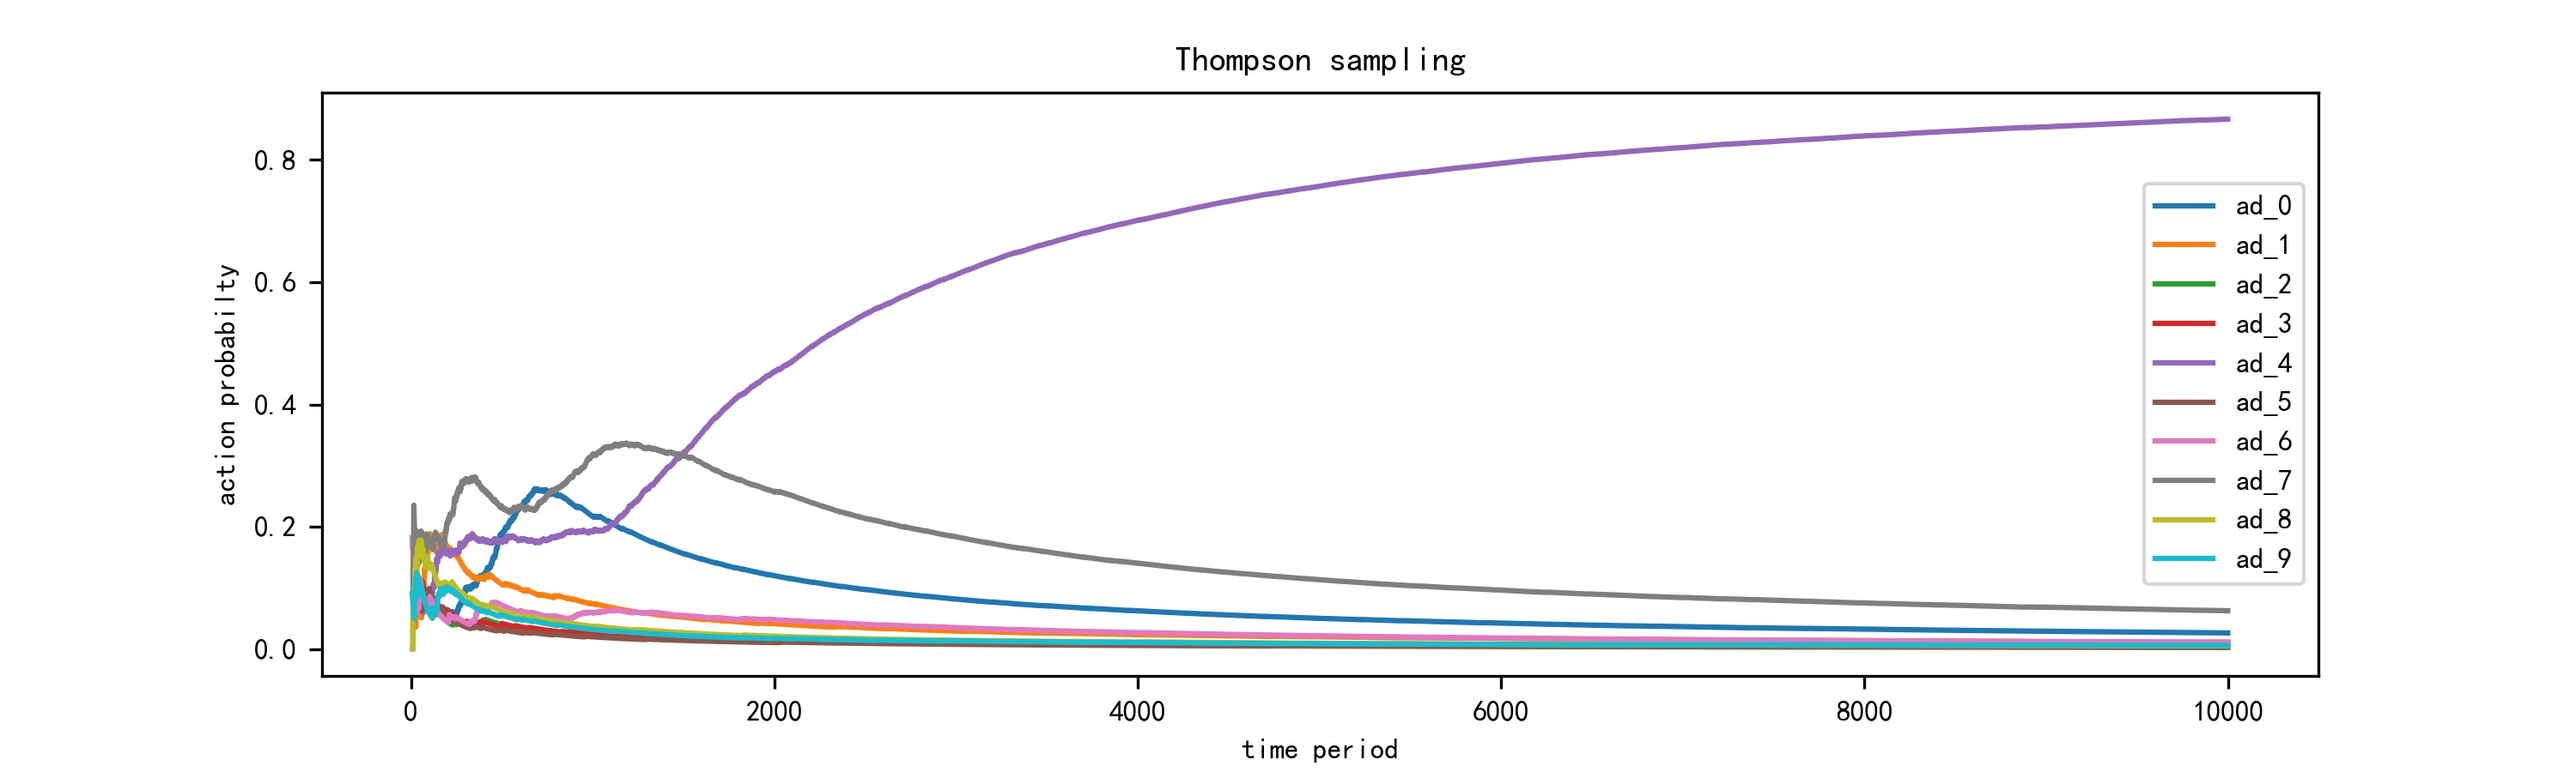
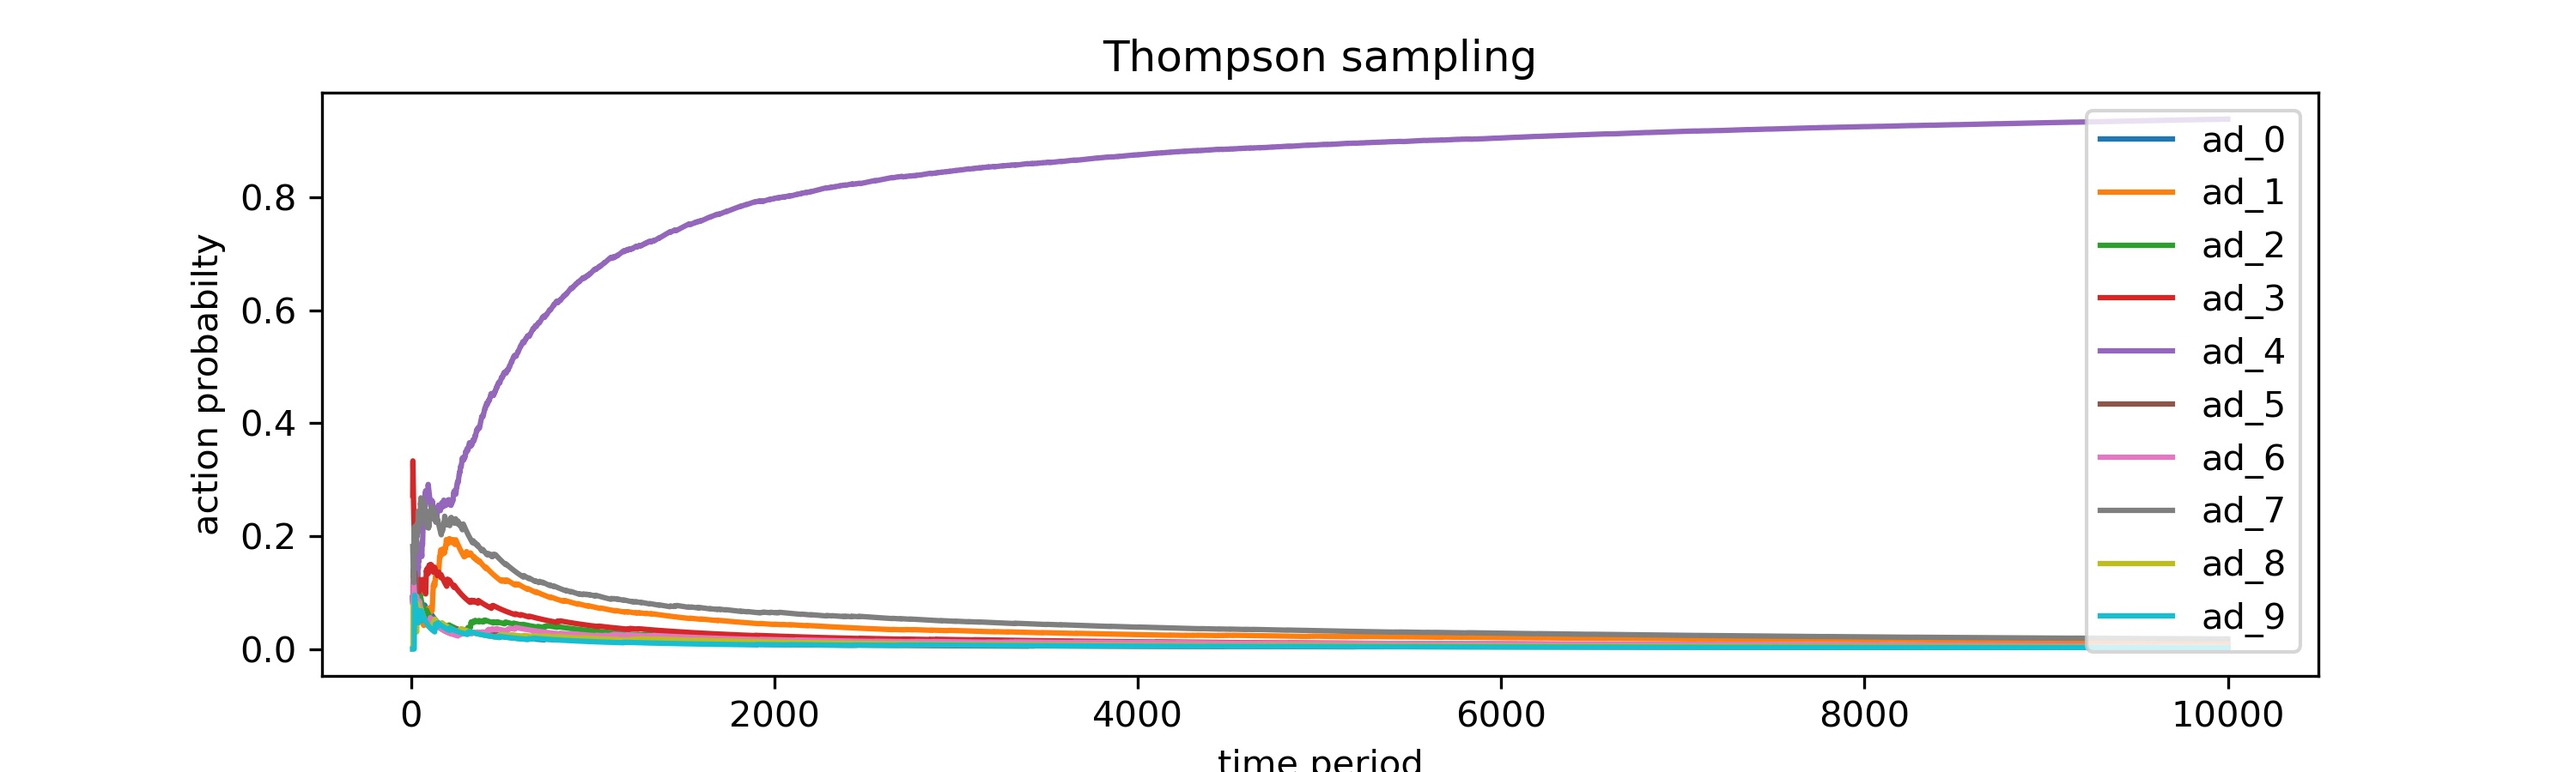
update

diff --git a/sample_code/BernTS_vs_BernGreedy/BernTS_actionProbabilty.py b/sample_code/BernTS_vs_BernGreedy/BernTS_actionProbabilty.py
@@ -6,6 +6,45 @@ import pandas as pd
 
 dataset = pd.read_csv('Ads_CTR_Optimisation.csv')
 
+
+import random
+N = 10000                   # 1000 people, considering it as 'k' 
+d = 10                      # 10 ads, the number of bandit
+
+
+# BernTS
+ads_selected = []           # Action list, for statistical analysis.
+ads_count = [0] * d   # the Cumulative Distribution Function of action
+ads_count_list = []
+numbers_of_rewards_1 = [0] * d # the reward_1 of ad_i
+numbers_of_rewards_0 = [0] * d # the reward_0 of ad_i
+total_reward = 0            # total reward
+ads_count_prop_list = []
+for n in range(0, N):        # for each observation
+    ad = 0
+    zeta_list = np.zeros(10)
+    #sample model:
+    for i in range(0, d):   # for each ad
+        zeta = random.betavariate(numbers_of_rewards_1[i] + 1, 
+                                         numbers_of_rewards_0[i] + 1) # zeta_i
+                                            # zeta_i;   '+1' is for initial condition.
+        zeta_list[i] = zeta
+    #select and apply action:
+    ad = np.argmax(zeta_list)    # x_t <- argmax_k (zeta_k)
+    ads_selected.append(ad)
+    ads_count[ad] += 1
+    ads_count_prop = np.array(ads_count)/sum(np.array(ads_count))
+    ads_count_prop_list.append(ads_count_prop)
+    reward = dataset.values[n, ad]  # apply the action and observe reward_t.
+    # update distribution:
+    if reward == 1:
+        numbers_of_rewards_1[ad] = numbers_of_rewards_1[ad] + 1
+    else:
+        numbers_of_rewards_0[ad] = numbers_of_rewards_0[ad] + 1
+    total_reward = total_reward + reward
+print('the total reward of TS is {}'.format(total_reward))
+print('the action token by TS are {}'.format(ads_count))
+
 def plot_action_prop(ads_count_prop_list,title ='',N=N,d=d):
     ads_count_prop_list = np.mat(ads_count_prop_list)
     x = np.arange(10,N)
@@ -22,9 +61,7 @@ def plot_action_prop(ads_count_prop_list,title ='',N=N,d=d):
     plt.show()
     plt.close()
 
-import random
-N = 10000                   # 1000 people, considering it as 'k' 
-d = 10                      # 10 ads, the number of bandit
+plot_action_prop(ads_count_prop_list,'Thompson sampling')
 
 ads_selected = []           # Action list, for statistical analysis.
 ads_count = [0] * d   # the Cumulative Distribution Function of action
@@ -59,41 +96,7 @@ print('the total reward of Greedy is {}'.format(total_reward))
 print('the action token by Greedy are {}'.format(ads_count))
 
 #for showing chinese in the graph
-plot_action_prop(ads_count_prop_list,title ='Greedy algo.')
+plot_action_prop(ads_count_prop_list,title ='Greedy algo')
 
 
 
-# BernTS
-ads_selected = []           # Action list, for statistical analysis.
-ads_count = [0] * d   # the Cumulative Distribution Function of action
-ads_count_list = []
-numbers_of_rewards_1 = [0] * d # the reward_1 of ad_i
-numbers_of_rewards_0 = [0] * d # the reward_0 of ad_i
-total_reward = 0            # total reward
-ads_count_prop_list = []
-for n in range(0, N):        # for each observation
-    ad = 0
-    zeta_list = np.zeros(10)
-    #sample model:
-    for i in range(0, d):   # for each ad
-        zeta = random.betavariate(numbers_of_rewards_1[i] + 1, 
-                                         numbers_of_rewards_0[i] + 1) # zeta_i
-        zeta_list[i] = zeta
-    zeta_history.append(zeta_list)
-    #select and apply action:
-    ad = np.argmax(zeta_list)    # x_t <- argmax_k (zeta_k)
-    ads_selected.append(ad)
-    ads_count[ad] += 1
-    ads_count_prop = np.array(ads_count)/sum(np.array(ads_count))
-    ads_count_prop_list.append(ads_count_prop)
-    reward = dataset.values[n, ad]  # apply the action and observe reward_t.
-    # update distribution:
-    if reward == 1:
-        numbers_of_rewards_1[ad] = numbers_of_rewards_1[ad] + 1
-    else:
-        numbers_of_rewards_0[ad] = numbers_of_rewards_0[ad] + 1
-    total_reward = total_reward + reward
-print('the total reward of TS is {}'.format(total_reward))
-print('the action token by TS are {}'.format(ads_count))
-
-plot_action_prop(ads_count_prop_list,'Thompson sampling')

diff --git a/sample_code/BernTS_vs_BernGreedy/BernTS_RewardAndAction.py b/sample_code/BernTS_vs_BernGreedy/BernTS_RewardAndAction.py
@@ -24,17 +24,18 @@ total_reward = 0            # total reward
 for n in range(0, N):        # for each observation
     ad = 0
     zeta_list = np.zeros(10)
-    #sample model:
+    #1.sample model:
     for i in range(0, d):   # for each ad
         zeta = random.betavariate(numbers_of_rewards_1[i] + 1, 
-                                         numbers_of_rewards_0[i] + 1) # zeta_i
+                                         numbers_of_rewards_0[i] + 1) 
+                                    # zeta_i;   '+1' is for initial condition.
         zeta_list[i] = zeta
-    #select and apply action:
+    #2.select and apply action:
     ad = np.argmax(zeta_list)    # x_t <- argmax_k (zeta_k)
     ads_selected.append(ad)
     ads_count[ad] += 1
     reward = dataset.values[n, ad]  # apply the action and observe reward_t.
-    # update distribution:
+    #3.update distribution:
     if reward == 1:
         numbers_of_rewards_1[ad] = numbers_of_rewards_1[ad] + 1
     else:
